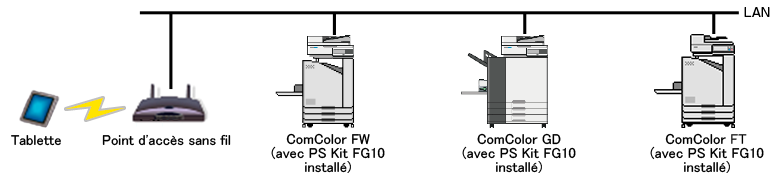
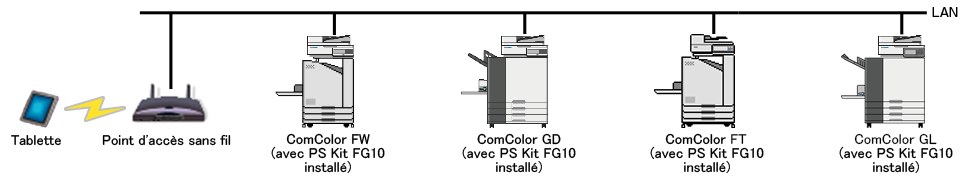
[feature/V5.4.0/Android/RQM-2021-HelpUpdate] Help update from RISO_PRINT-S_210803_LIO対応

Changed region(s): [[0.0, 0.0562, 0.8052, 0.9831], [0.8361, 0.0281, 1.0, 0.9831], [0.5265, 0.0843, 0.5574, 0.1685]]

diff --git a/Android/app/src/main/assets/html-ja/help.html b/Android/app/src/main/assets/html-ja/help.html
@@ -37,6 +37,7 @@
         
         img{
         	vertical-align:middle;
+        	max-width: 100%;
         }
 
         div.image,
@@ -146,7 +147,7 @@
     <hr />
      </div><div id="contentsArea"><article data-language="ja-jp">
   <h2>
-    <a name="top"></a>■目次（ORPHIS GD/ORPHIS FT/ORPHIS FW）</h2>
+    <a name="top"></a>■目次（ORPHIS GL/ORPHIS GD/ORPHIS FT/ORPHIS FW/CEREZONA S）</h2>
   <div class="tocs">
     <p>○<a href="#2">はじめに</a></p>
     <p>○<a href="#3">利用環境</a></p>
@@ -203,7 +204,7 @@
     <h3>
       <span>出力先プリンター</span>
     </h3>
-    <p class="para" data-key="_jtxkevctm6_1" data-id="373" data-history="373" data-block="43">OR-PostScriptキットを接続した ORPHIS FW／GD／FT シリーズで出力できます。</p>
+    <p class="para" data-key="_jtxkevctm6_1" data-id="373" data-history="373" data-block="43">OR-PostScriptキットを接続したORPHIS FW／GD／FT／GLシリーズおよびCEREZONA Sシリーズで出力できます。</p>
   </div>
 </article><p class='toTop'><a href='#top'>■目次</a></p><hr/><article data-language="ja-jp">
   <h2>
@@ -439,7 +440,7 @@
           <p class="para" data-key="_jtxo867ff1_15" data-id="474" data-history="474" data-block="303">変更する場合は、［プリンター］画面右上の［<img src="icon_setting.png" data-key="_jtxt1rukbz_10" />］ボタンをタップします。</p>
           <p class="para" data-key="_jtxo867ff1_15" data-id="474" data-history="474" data-block="303">1～32文字で入力してください。</p>
           <p class="para" data-key="_jtxo867ff1_15" data-id="474" data-history="474" data-block="303">半角英数字（大文字／小文字）と、以下の半角の記号が入力できます。</p>
-          <p class="para" data-key="_jtxo867ff1_15" data-id="474" data-history="474" data-block="303">, . / : ; @ [ ¥ ] ^ _</p>
+          <p class="para" data-key="_jtxo867ff1_15" data-id="474" data-history="474" data-block="303">, . / : ; @ [ ¥ ] ^ _ <span style="font-family: 'Arial';">\<span></p>
         </div>
       </li>
       <li>
@@ -820,7 +821,7 @@
     <h3>
       <span>出力先プリンタ</span>
     </h3>
-    <p class="para" data-key="_jtxkevctm6_1" data-id="373" data-history="373" data-block="43">以下の外部コントローラーを接続した ORPHIS EX シリーズで出力できます。</p>
+    <p class="para" data-key="_jtxkevctm6_1" data-id="373" data-history="373" data-block="43">以下の外部コントローラーを接続したORPHIS EXシリーズで出力できます。</p>
     <div class="table">
       <table>
         <colgroup>
@@ -1404,7 +1405,7 @@
   <div class="list">
     <ul class="list">
       <li>
-        <p class="para" data-key="_jtxkgfzocf_1" data-id="580" data-history="580" data-block="143">Android™およびGoogle Play™は、Google Inc.の登録商標または商標です。</p>
+        <p class="para" data-key="_jtxkgfzocf_1" data-id="580" data-history="580" data-block="143">Android&trade;およびGoogle Play&trade;は、Google Inc.の登録商標または商標です。</p>
       </li>
       <li>
         <p class="para" data-key="_jtxkgfzocf_3" data-id="148" data-history="148" data-block="145">その他の社名、商品名は各社の登録商標または商標です。</p>
@@ -1432,9 +1433,9 @@
     <div class="footer">
         <img src="riso_logo.png" />
         <p>〒108-8385 東京都港区芝5-34-7田町センタービル 電話 (03)5441-6112</p>
-        <p>© 2020 理想科学工業株式会社</p>
-        <p>2020/3</p>
-        <p>Mi6601-03-JP</p>
+        <p>&copy; 2021 理想科学工業株式会社</p>
+        <p>2021/8</p>
+        <p>Mi6806-13-JP</p>
     </div>
   </div>
 </body>

diff --git a/Android/app/src/main/assets/html/help.html b/Android/app/src/main/assets/html/help.html
@@ -37,6 +37,7 @@
         
         img{
         	vertical-align:middle;
+        	max-width: 100%;
         }
 
         div.image,
@@ -146,7 +147,7 @@
     <hr />
      </div><div id="contentsArea"><article data-language="en-us">
   <h2>
-    <a name="top"></a>■Table Of Contents (ComColor GD Series / ComColor FT Series / CoｍColor FW Series)</h2>
+    <a name="top"></a>■Table Of Contents (ComColor GL Series / ComColor GD Series / ComColor FT Series / CoｍColor FW Series)</h2>
   <div class="tocs">
     <p>○<a href="#2">Introduction</a></p>
     <p>○<a href="#3">Usage Environment</a></p>
@@ -192,7 +193,7 @@
   </div>
   <div class="section">
     <h3>Output Destinations</h3>
-    <p class="para" data-key="_jtxkevctm6_1" data-id="11393" data-history="741" data-block="541">Printing can be output to the following ComColor FW/GD/FT Series printers with the PS Kit FG10 installed.</p>
+    <p class="para" data-key="_jtxkevctm6_1" data-id="11393" data-history="741" data-block="541">Printing can be output to the following ComColor FW/GD/FT/GL Series printers with the PS Kit FG10 installed.</p>
   </div>
 </article><p class='toTop'><a href='#top'>■Table Of Contents</a></p><hr/><article data-language="en-us">
   <h2>
@@ -1379,7 +1380,7 @@ The registered printers can be managed as required.</span>
   <div class="list">
     <ul class="list">
       <li>
-        <p class="para" data-key="_jtxkgfzocf_1" data-id="929" data-history="650" data-block="450">Android™ and Google Play™ are registered trademarks or trademarks of Google Inc.</p>
+        <p class="para" data-key="_jtxkgfzocf_1" data-id="929" data-history="650" data-block="450">Android&trade; and Google Play&trade; are registered trademarks or trademarks of Google Inc.</p>
       </li>
       <li>
         <p class="para" data-key="_jtxkgfzocf_3" data-id="933" data-history="652" data-block="452">Other corporate names and/or trademarks are either registered trademarks or trademarks of each company, respectively.</p>
@@ -1389,9 +1390,9 @@ The registered printers can be managed as required.</span>
 </article><p class='toTop'><a href='#top'>■Table Of Contents</a></p><hr/>
     <div class="footer">
         <img src="riso_logo.png" />
-        <p>© 2020 RISO KAGAKU CORPORATION</a></p>
-        <p>2020/3</a></p>
-        <p>Mi6601-03-EN</p>
+        <p>&copy; 2021 RISO KAGAKU CORPORATION</a></p>
+        <p>2021/8</a></p>
+        <p>Mi6806-13-EN</p>
     </div>
   </div>
 </body>

diff --git a/Android/app/src/main/assets/html-fr/help.html b/Android/app/src/main/assets/html-fr/help.html
@@ -37,6 +37,7 @@
         
         img{
         	vertical-align:middle;
+        	max-width: 100%;
         }
 
         div.image,
@@ -146,7 +147,7 @@
     <hr />
      </div><div id="contentsArea"><article data-language="en-us">
   <h2>
-    <a name="top"></a>■Table des matières (Série ComColor GD / Série ComColor FT / Série ComColor FW)</h2>
+    <a name="top"></a>■Table des matières (Série ComColor GL / Série ComColor GD / Série ComColor FT / Série ComColor FW)</h2>
   <div class="tocs">
     <p>○<a href="#2">Préface</a></p>
     <p>○<a href="#3">Environnement d'utilisation</a></p>
@@ -192,7 +193,7 @@
   </div>
   <div class="section">
     <h3>Destinations de sortie</h3>
-    <p class="para" data-key="_jtxkevctm6_1" data-id="11393" data-history="741" data-block="541">L’impression peut être envoyée aux imprimantes série ComColor FW/GD/FT suivantes sur lesquelles le PS Kit FG10 est installé.
+    <p class="para" data-key="_jtxkevctm6_1" data-id="11393" data-history="741" data-block="541">L’impression peut être envoyée aux imprimantes série ComColor FW/GD/FT/GL suivantes sur lesquelles le PS Kit FG10 est installé.
   </div>
 </article><p class='toTop'><a href='#top'>■Table des matières</a></p><hr/><article data-language="en-us">
   <h2>
@@ -1374,7 +1375,7 @@
   <div class="list">
     <ul class="list">
       <li>
-        <p class="para" data-key="_jtxkgfzocf_1" data-id="929" data-history="650" data-block="450">Android™ et Google Play™ sont des marques commerciales ou des marques déposées de Google Inc.</p>
+        <p class="para" data-key="_jtxkgfzocf_1" data-id="929" data-history="650" data-block="450">Android&trade; et Google Play&trade; sont des marques commerciales ou des marques déposées de Google Inc.</p>
       </li>
       <li>
         <p class="para" data-key="_jtxkgfzocf_3" data-id="933" data-history="652" data-block="452">Les autres noms d’entreprise et/ou marques commerciales sont des marques déposées ou des marques commerciale des entreprise respectives.</p>
@@ -1384,9 +1385,9 @@
 </article><p class='toTop'><a href='#top'>■Table des matières</a></p><hr/>
     <div class="footer">
         <img src="riso_logo.png" />
-        <p>© 2020 RISO KAGAKU CORPORATION</p>
-        <p>2020/3</p>
-        <p>Mi6601-03-FR</p>
+        <p>&copy; 2021 RISO KAGAKU CORPORATION</p>
+        <p>2021/8</p>
+        <p>Mi6806-13-FR</p>
     </div>
   </div>
 </body>
